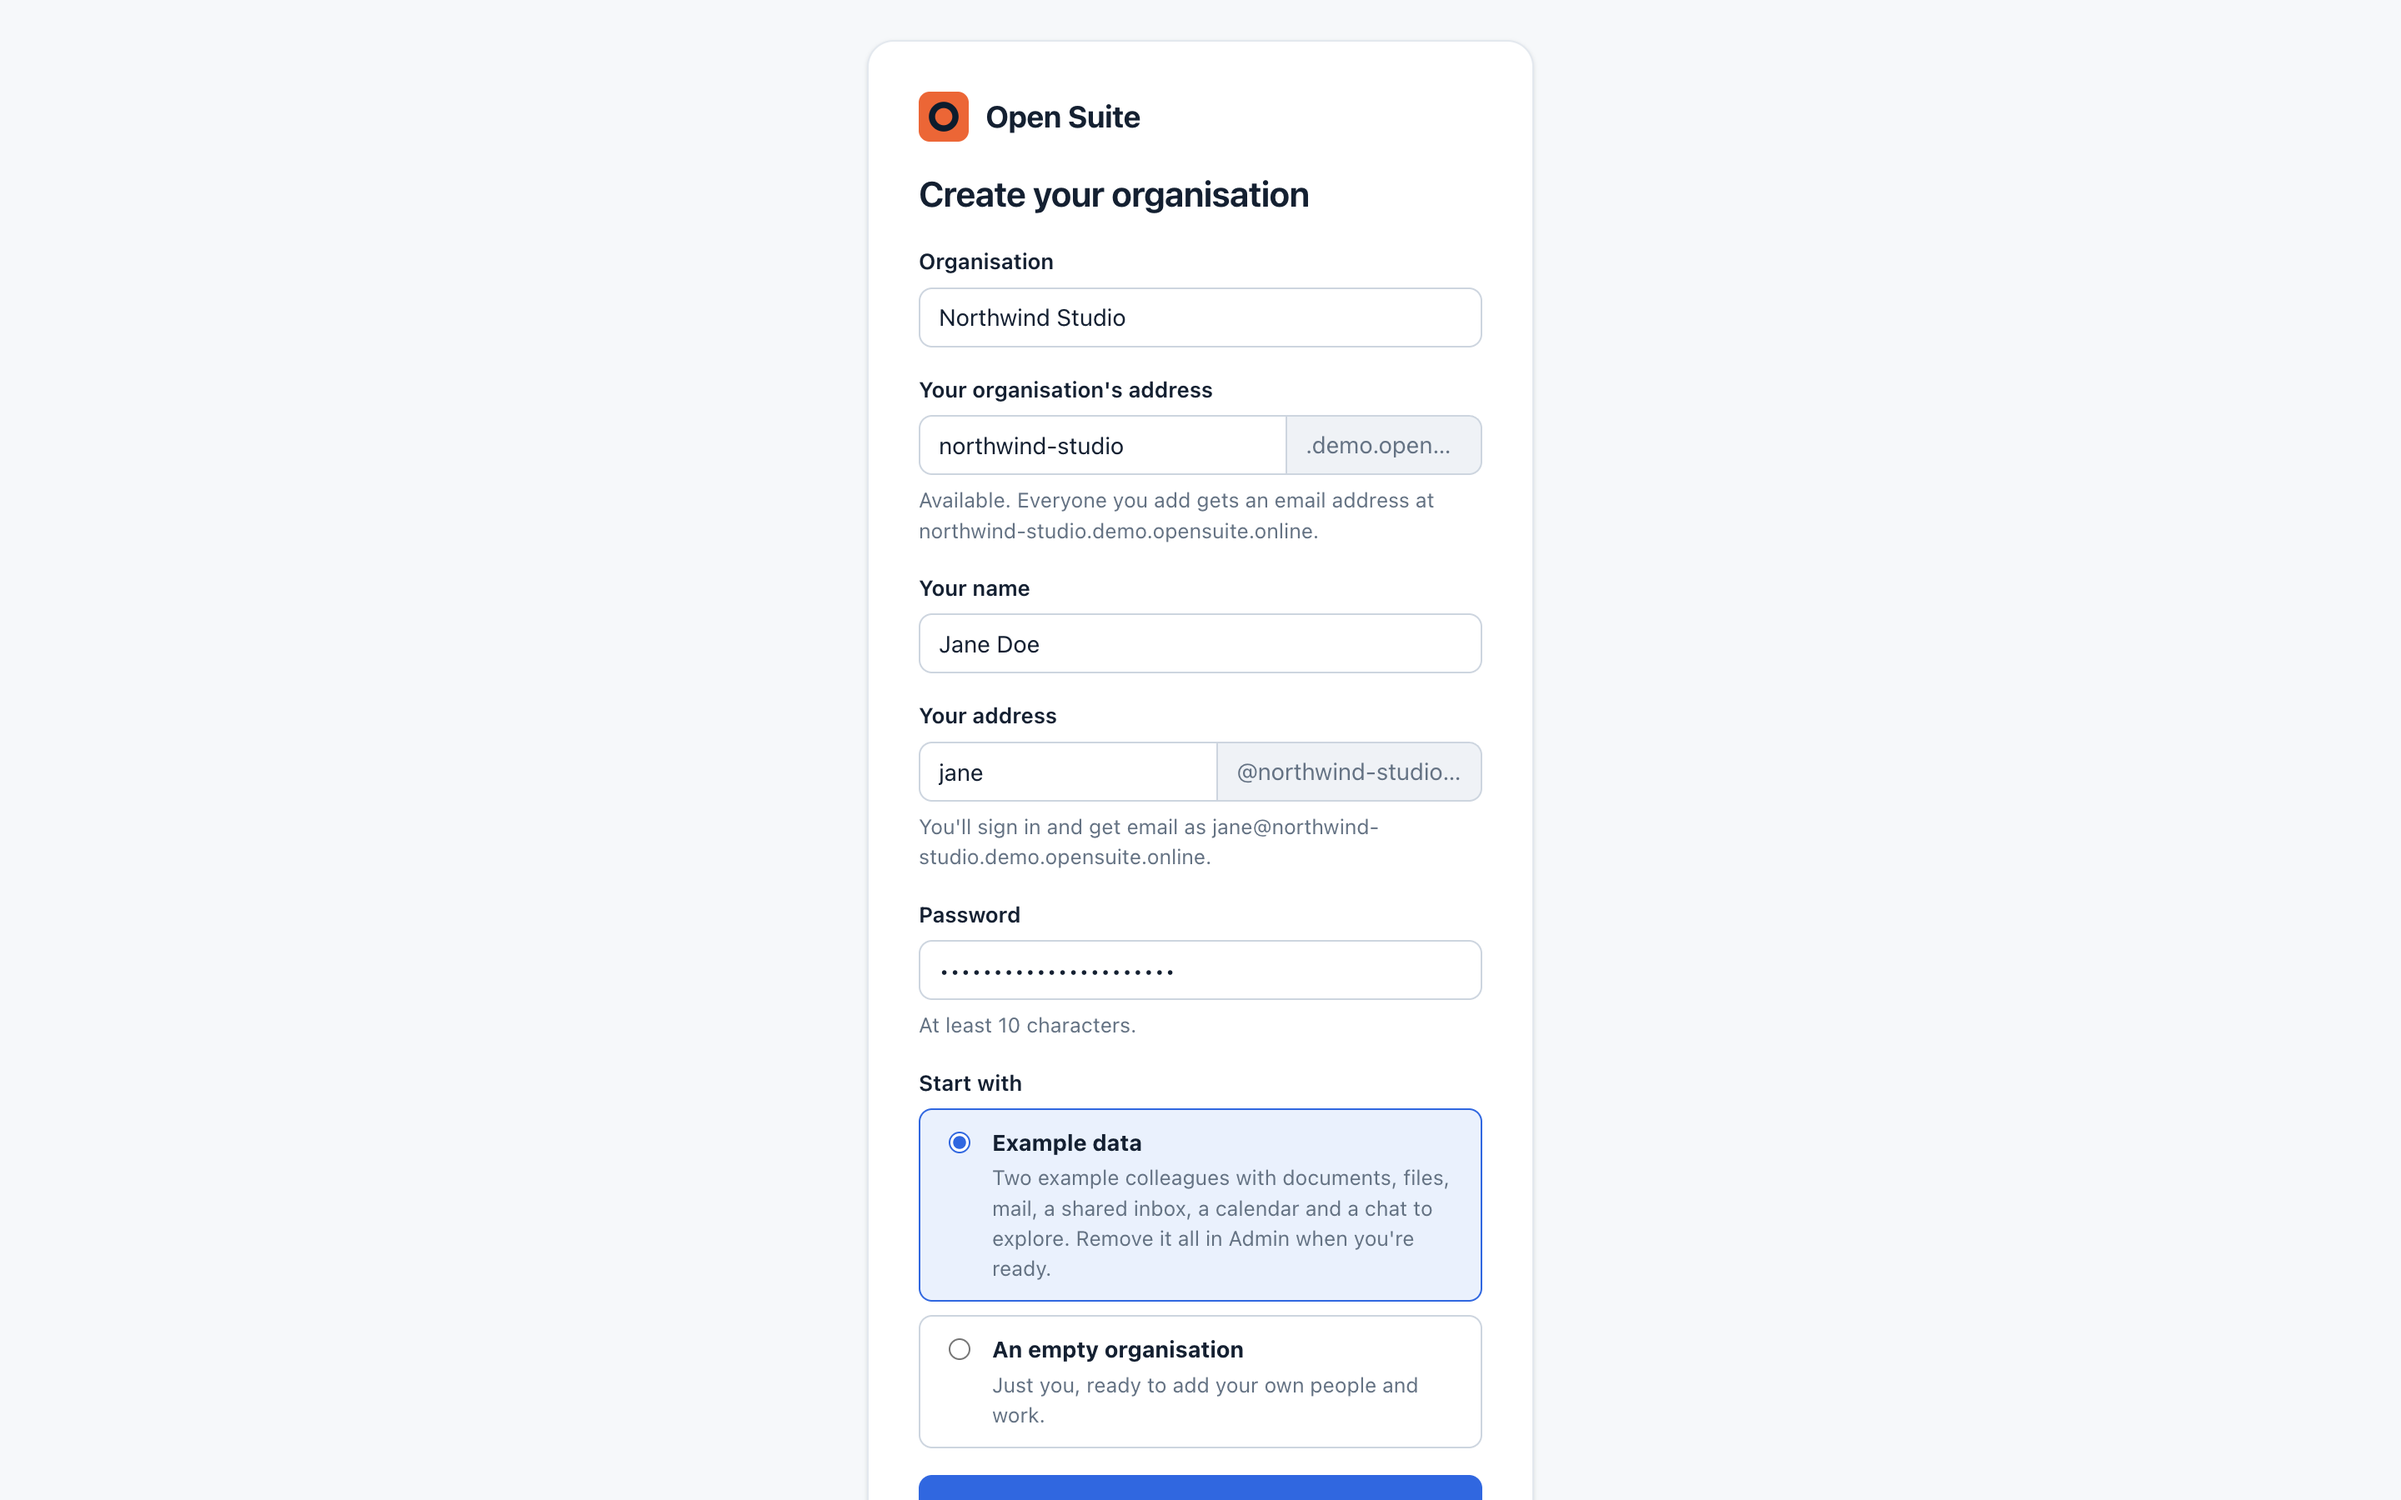
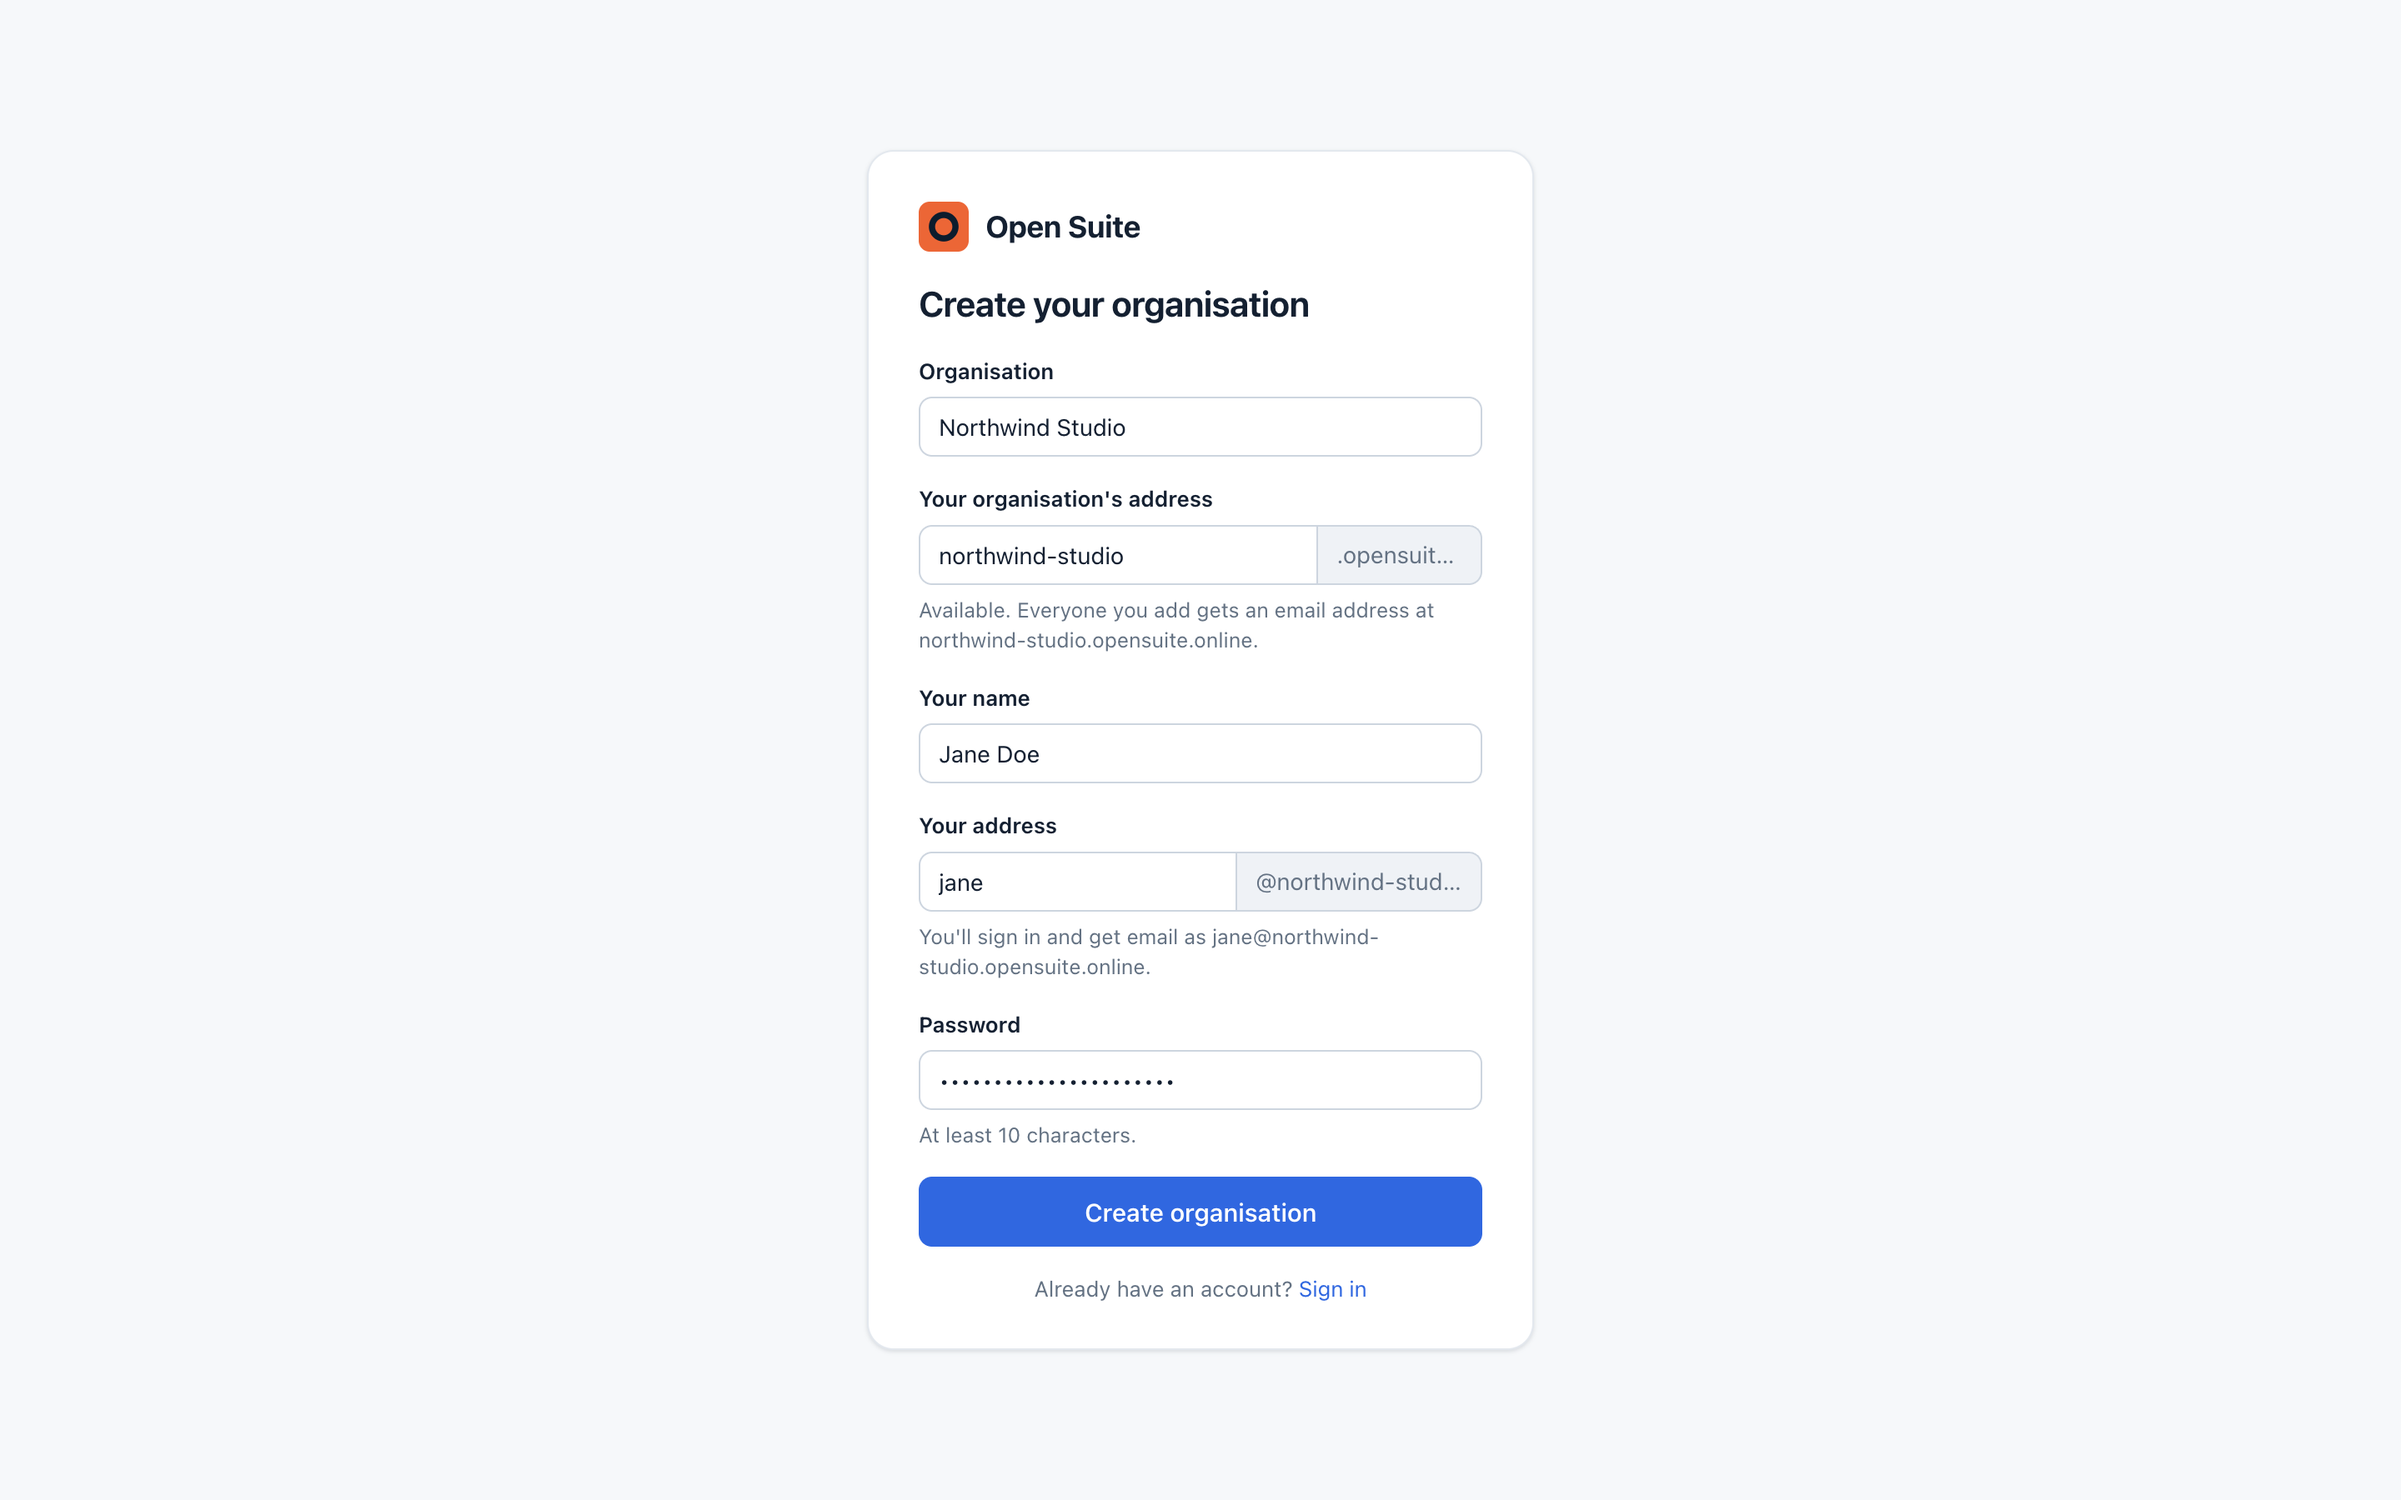
Remove example data from sign-up; document OS_MAIL_HOST (#11)

diff --git a/it/install.md b/it/install.md
@@ -112,7 +112,8 @@ run `deploy.sh`:
 | `OS_SIGNUP_CODE` | any text | empty | The invitation code when `OS_SIGNUP=code`. |
 | `OS_OPERATORS` | comma-separated sign-in addresses | empty | Platform operators. They see an extra **All organisations** tab in Admin, listing every organisation, and can switch an organisation between the Free and Team plans. |
 | `OS_MAIL_RELAY` | `host:port:user:password` or `file:/path` | empty | Send outgoing mail through a smarthost instead of delivering directly. Port 465 uses implicit TLS; other ports use STARTTLS. `file:/path` reads the value from a file on the server, so the password never appears on your command line. |
-| `OS_ORG_DOMAIN_SUFFIX` | a domain, e.g. `opensuite.example` | empty | Give every new organisation its own mail domain, `<name>.opensuite.example`, chosen at sign-up, and offer to start it with example data. Publish a wildcard MX record, `*.opensuite.example` to the server's mail host, so mail for every such domain reaches the server. Empty: organisations use the installation's mail domain and sign-up offers no example data. |
+| `OS_ORG_DOMAIN_SUFFIX` | a domain, e.g. `opensuite.example` | empty | Give every new organisation its own mail domain, `<name>.opensuite.example`, chosen at sign-up. Publish a wildcard MX record, `*.opensuite.example` pointing at `OS_MAIL_HOST`, so mail for every such domain reaches the server, and a wildcard SPF record. Empty: organisations use the installation's mail domain. |
+| `OS_MAIL_HOST` | a host name, e.g. `mail.opensuite.example` | the web domain | The name your MX records point at. It needs an A record to the server; Open Suite gets its certificate and the mail server presents it to other mail servers. |
 
 For example:
 

diff --git a/admins/plan-and-limits.md b/admins/plan-and-limits.md
@@ -51,28 +51,8 @@ plan allows, adding another fails with a message naming the limit. Removing a
 person or deleting a group frees its place. Groups do not count as people. [Agents](./agents.md) count as people, because
 each has its own mailbox and storage.
 
-The example colleagues and the example Sales group of an organisation that
-started with example data do not count: they cannot sign in, and they are
-there only until you remove them. The organisation's own address on Open
-Suite (see [Custom domains](./custom-domains.md)) does not count as a custom
-domain.
-
-## Remove the example data
-
-If you chose **Example data** when you created the organisation, the
-**Organisation** tab has an **Example data** card. Click **Remove example
-data**, then **Remove**. This deletes:
-
-- the example colleagues, Ada Lovelace and Grace Hopper, with their mailboxes;
-- the Sales group and all of its mail;
-- the example documents, files, folders and meeting rooms;
-- the example mail, events, contacts and chat conversation in your own
-  accounts.
-
-What you and your colleagues made stays, including documents and files you
-put in an example folder: they move to the top level of **Files**. Anything
-an example colleague owned that was not part of the example becomes yours.
-The card then disappears.
+The organisation's own address on Open Suite (see
+[Custom domains](./custom-domains.md)) does not count as a custom domain.
 
 ## Change the plan
 

diff --git a/users/intro.md b/users/intro.md
@@ -56,23 +56,19 @@ yourself as its owner:
 4. Choose a **Password** of at least 10 characters.
 5. If the form asks for an **Invitation code**, enter the code the people who
    run the installation gave you.
-6. Under **Start with**, choose:
-   - **Example data** to explore the suite with something in it: two example
-     colleagues with documents, files, mail, a shared Sales inbox, calendar
-     events and a chat, all around a product launch. You can remove it in one
-     step later (see [Plan and limits](/admins/plan-and-limits#remove-the-example-data)).
-   - **An empty organisation** to start with just yourself.
-7. Click **Create organisation**.
+6. Click **Create organisation**.
 
 ![The Create your organisation form](/img/users/sign-up.png)
 
-You go straight to Home. As the owner, you can add colleagues from
+You go straight to Home, in a new organisation with just you in it. To look
+around a suite that is already full of work, sign in to the public demo
+instead. As the owner, you can add colleagues from
 [Admin](/admins). If the page says **Sign-up is closed**, ask the people who
 run the installation for an account.
 
 Some installations do not give each organisation its own address. Their form
-has no organisation address and no **Start with** choice, and your address is
-on the installation's own domain.
+has no organisation address, and your address is on the installation's own
+domain.
 
 ## What is where
 
